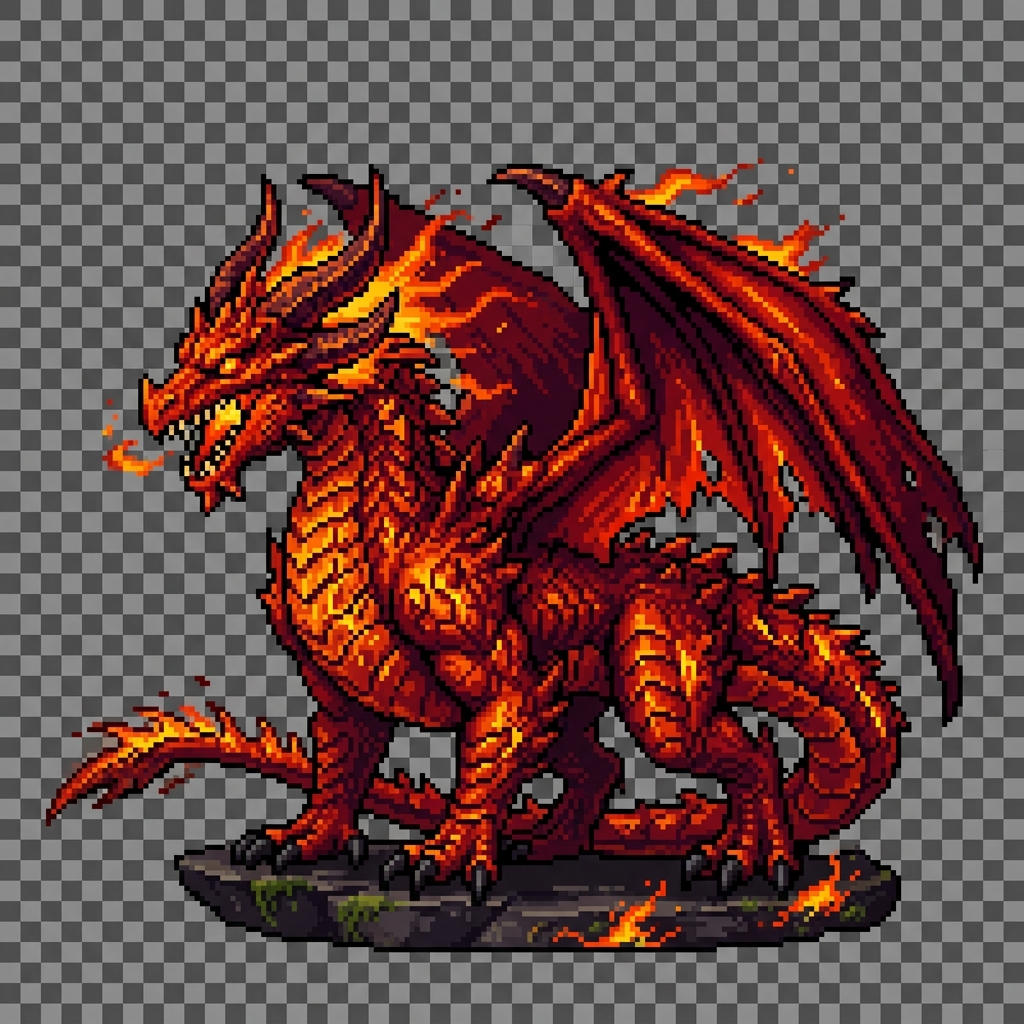
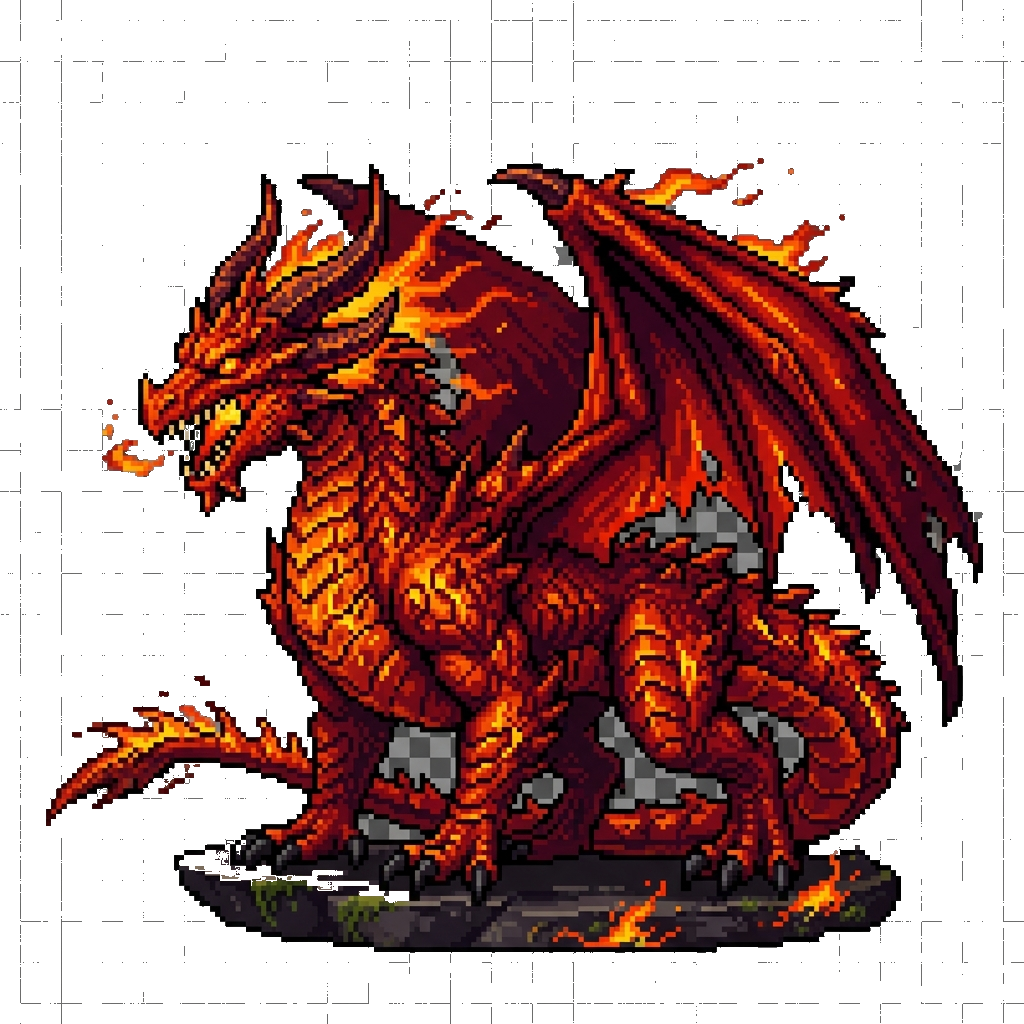
Sync sprite bg-removal and HUD polish
- Remove white backgrounds from dragon and skeleton sprites
- HUD: larger panel (108px), gold border, better readability
- Title screen: dark text backdrop, recentered text
- Game over: dark card behind GAME OVER text
- Abilities bar: gold-outlined bottom strip

diff --git a/src/game.js b/src/game.js
@@ -427,12 +427,15 @@ export class Game {
     this.drawPixelMage(220, 310, 1.4);
     this.drawMonster(690, 290, { key: "dragon" }, 1.8);
 
+    ctx.fillStyle = "rgba(0, 0, 0, 0.65)";
+    ctx.fillRect(140, 70, 680, 260);
+
     ctx.fillStyle = "#eff6ff";
     ctx.font = "bold 48px Courier New";
-    ctx.fillText("PIXEL MATH", 276, 128);
+    ctx.fillText("PIXEL MATH", 320, 128);
     ctx.fillStyle = "#ffd166";
     ctx.font = "bold 20px Courier New";
-    ctx.fillText("Fantasy RPG of Spellcasting and Numbers", 182, 166);
+    ctx.fillText("Fantasy RPG of Spellcasting and Numbers", 230, 166);
 
     const lines = [
       "Move with WASD or arrow keys in the overworld.",
@@ -475,14 +478,18 @@ export class Game {
   drawGameOver() {
     this.drawSky("volcano");
     this.drawGround(true);
-    this.ctx.fillStyle = "rgba(0, 0, 0, 0.45)";
+    this.ctx.fillStyle = "rgba(0, 0, 0, 0.65)";
     this.ctx.fillRect(0, 0, WIDTH, HEIGHT);
+    
+    this.ctx.fillStyle = "rgba(0, 0, 0, 0.8)";
+    this.ctx.fillRect(200, 120, 560, 240);
+
     this.ctx.fillStyle = "#ffb4b4";
     this.ctx.font = "bold 56px Courier New";
-    this.ctx.fillText("GAME OVER", 296, 186);
+    this.ctx.fillText("GAME OVER", 316, 186);
     this.ctx.fillStyle = "#eff6ff";
     this.ctx.font = "20px Courier New";
-    this.ctx.fillText(`Final score: ${this.state.score}`, 362, 246);
+    this.ctx.fillText(`Final score: ${this.state.score}`, 382, 246);
     this.ctx.fillText("Press Enter to challenge fate again.", 254, 300);
   }
 
@@ -537,11 +544,11 @@ export class Game {
 
   drawHud() {
     const ctx = this.ctx;
-    ctx.fillStyle = "rgba(6, 9, 18, 0.82)";
-    ctx.fillRect(18, 14, WIDTH - 36, 78);
-    ctx.strokeStyle = "#cddafd";
-    ctx.lineWidth = 2;
-    ctx.strokeRect(18, 14, WIDTH - 36, 78);
+    ctx.fillStyle = "rgba(0, 0, 0, 0.8)";
+    ctx.fillRect(18, 14, WIDTH - 36, 108);
+    ctx.strokeStyle = "#d4af37";
+    ctx.lineWidth = 4;
+    ctx.strokeRect(18, 14, WIDTH - 36, 108);
 
     this.drawBar(34, 34, 220, 16, this.state.player.hp / this.state.player.maxHp, "#ff6b6b", "Hero HP");
 
@@ -558,9 +565,17 @@ export class Game {
     ctx.fillText(this.state.environment, 614, 74);
 
     const abilityText = `1 Hint ${this.state.player.abilities.hint ? "ON" : "LOCK"}   2 Freeze ${this.state.player.abilities.freeze ? this.state.player.freezeCharges : "LOCK"}   3 Double ${this.state.player.abilities.double ? "ON" : "LOCK"}`;
+    
+    // Bottom bar for abilities
+    ctx.fillStyle = "rgba(0, 0, 0, 0.8)";
+    ctx.fillRect(18, 496, 540, 34);
+    ctx.strokeStyle = "#d4af37";
+    ctx.lineWidth = 2;
+    ctx.strokeRect(18, 496, 540, 34);
+
     ctx.fillStyle = "#ffd166";
     ctx.font = "13px Courier New";
-    ctx.fillText(abilityText, 34, 516);
+    ctx.fillText(abilityText, 34, 518);
 
     ctx.fillStyle = "#dfe7fd";
     ctx.font = "15px Courier New";

diff --git a/assets/remove_bg.py b/assets/remove_bg.py
@@ -1,51 +1,89 @@
-from PIL import Image
-import glob
+from __future__ import annotations
 
-def remove_background(filepath):
+import glob
+from collections import Counter
+
+from PIL import Image
+
+
+def _color_distance_sq(a: tuple[int, int, int], b: tuple[int, int, int]) -> int:
+    dr = a[0] - b[0]
+    dg = a[1] - b[1]
+    db = a[2] - b[2]
+    return dr * dr + dg * dg + db * db
+
+
+def remove_background(filepath: str, *, tolerance: int = 42, max_bg_colors: int = 8) -> None:
     print(f"Processing {filepath}...")
-    img = Image.open(filepath).convert('RGBA')
+    img = Image.open(filepath).convert("RGBA")
     pixels = img.load()
     width, height = img.size
-    
-    # We will do a BFS from the edges
-    visited = set()
-    queue = []
-    
-    # Add all edge pixels
+
+    # Infer background palette from the edges.
+    edge_colors: list[tuple[int, int, int]] = []
     for x in range(width):
-        queue.append((x, 0))
-        queue.append((x, height - 1))
+        for y in (0, height - 1):
+            r, g, b, a = pixels[x, y]
+            if a > 0:
+                edge_colors.append((r, g, b))
     for y in range(height):
-        queue.append((0, y))
-        queue.append((width - 1, y))
-        
-    for x, y in queue:
-        visited.add((x, y))
-        
+        for x in (0, width - 1):
+            r, g, b, a = pixels[x, y]
+            if a > 0:
+                edge_colors.append((r, g, b))
+
+    if not edge_colors:
+        img.save(filepath)
+        return
+
+    bg_palette = [color for color, _ in Counter(edge_colors).most_common(max_bg_colors)]
+    tol_sq = tolerance * tolerance
+
+    visited: set[tuple[int, int]] = set()
+    queue: list[tuple[int, int]] = []
+
+    def is_background_pixel(x: int, y: int) -> bool:
+        r, g, b, a = pixels[x, y]
+        if a == 0:
+            return False
+        color = (r, g, b)
+        return any(_color_distance_sq(color, bg) <= tol_sq for bg in bg_palette)
+
+    # Seed BFS from all edge pixels so we only remove edge-connected background.
+    for x in range(width):
+        for y in (0, height - 1):
+            if (x, y) not in visited:
+                visited.add((x, y))
+                queue.append((x, y))
+    for y in range(height):
+        for x in (0, width - 1):
+            if (x, y) not in visited:
+                visited.add((x, y))
+                queue.append((x, y))
+
     head = 0
     while head < len(queue):
         cx, cy = queue[head]
         head += 1
-        
-        r, g, b, a = pixels[cx, cy]
-        # Check if it's a light gray/white checkerboard pixel
-        if r > 190 and g > 190 and b > 190 and a > 0:
-            pixels[cx, cy] = (0, 0, 0, 0) # Make transparent
-            
-            # Add 8-way neighbors
-            for dx in [-1, 0, 1]:
-                for dy in [-1, 0, 1]:
+
+        if is_background_pixel(cx, cy):
+            pixels[cx, cy] = (0, 0, 0, 0)
+
+            for dx in (-1, 0, 1):
+                for dy in (-1, 0, 1):
                     if dx == 0 and dy == 0:
                         continue
                     nx, ny = cx + dx, cy + dy
-                    if 0 <= nx < width and 0 <= ny < height:
-                        if (nx, ny) not in visited:
-                            visited.add((nx, ny))
-                            queue.append((nx, ny))
+                    if 0 <= nx < width and 0 <= ny < height and (nx, ny) not in visited:
+                        visited.add((nx, ny))
+                        queue.append((nx, ny))
 
     img.save(filepath)
 
-files = glob.glob('/Users/joseochoa/Desktop/pixel-math/assets/enemy_*.png') + ['/Users/joseochoa/Desktop/pixel-math/assets/player_mage.png']
+
+files = glob.glob("/Users/joseochoa/Desktop/pixel-math/assets/enemy_*.png") + [
+    "/Users/joseochoa/Desktop/pixel-math/assets/player_mage.png"
+]
 for f in files:
     remove_background(f)
 print("Done!")
